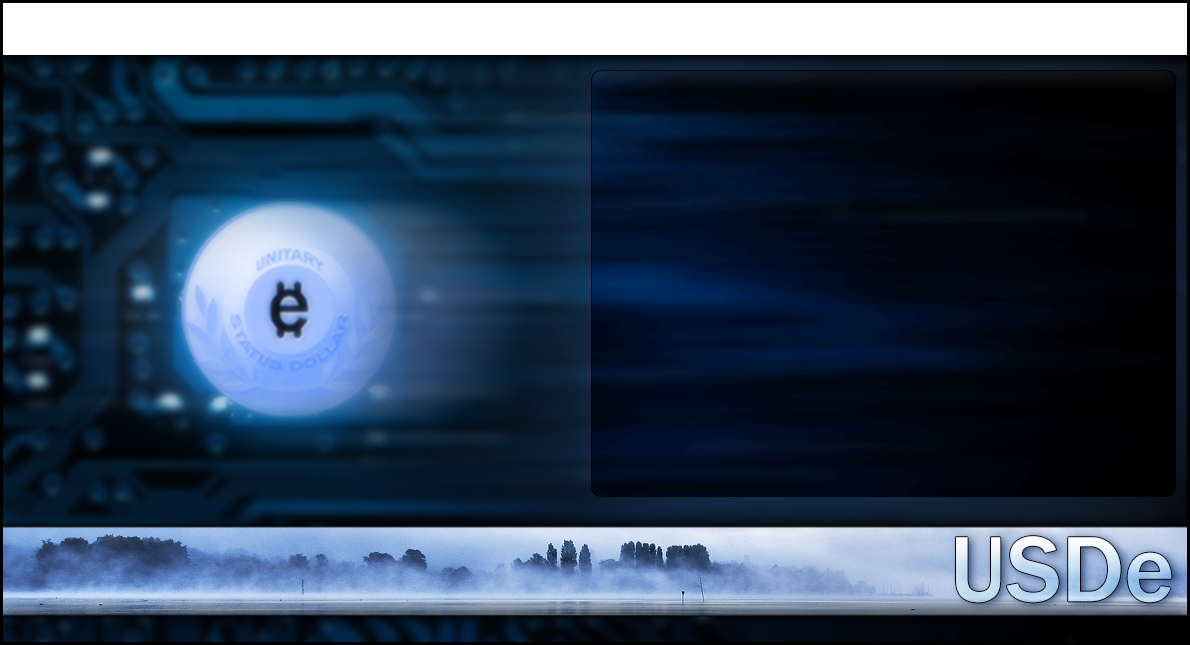
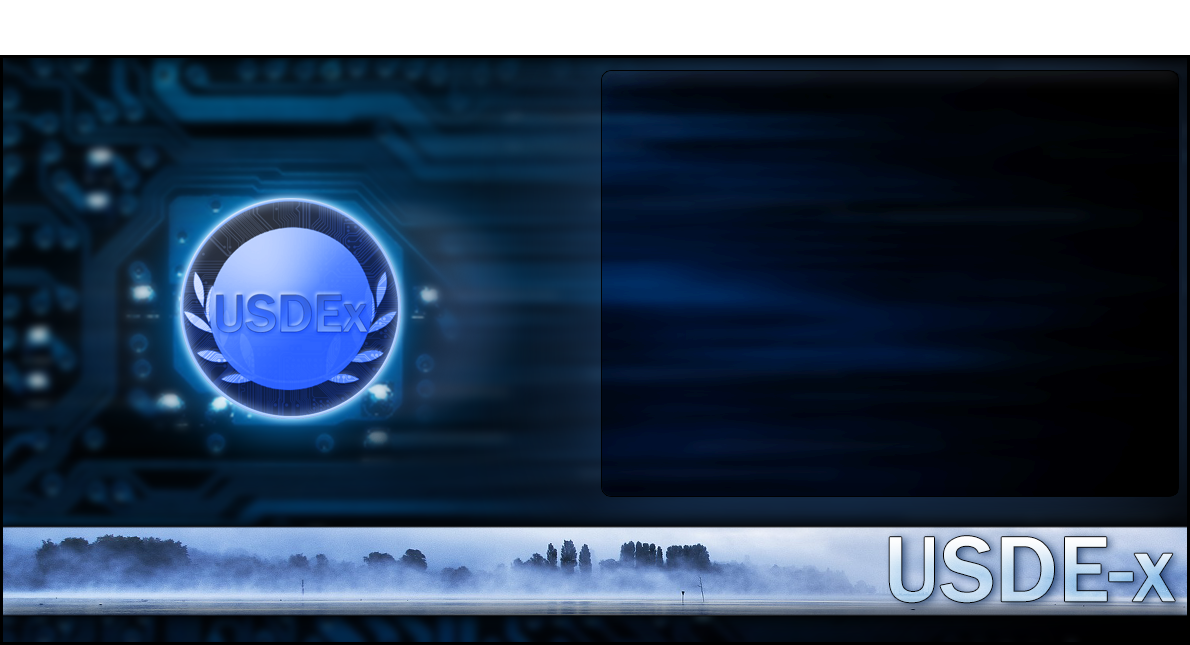
Fixed issue that caused the blockchain not to sync with the new information Updated graphics

diff --git a/src/util.cpp b/src/util.cpp
@@ -955,7 +955,7 @@ static std::string FormatException(std::exception* pex, const char* pszThread)
     char pszModule[MAX_PATH] = "";
     GetModuleFileNameA(NULL, pszModule, sizeof(pszModule));
 #else
-    const char* pszModule = "usdex2";
+    const char* pszModule = "usde2";
 #endif
     if (pex)
         return strprintf(
@@ -985,13 +985,13 @@ void PrintExceptionContinue(std::exception* pex, const char* pszThread)
 boost::filesystem::path GetDefaultDataDir()
 {
     namespace fs = boost::filesystem;
-    // Windows < Vista: C:\Documents and Settings\Username\Application Data\USDEX2
-    // Windows >= Vista: C:\Users\Username\AppData\Roaming\USDEX2
-    // Mac: ~/Library/Application Support/USDEX2
-    // Unix: ~/.USDEX2
+    // Windows < Vista: C:\Documents and Settings\Username\Application Data\USDE2
+    // Windows >= Vista: C:\Users\Username\AppData\Roaming\USDE2
+    // Mac: ~/Library/Application Support/USDE2
+    // Unix: ~/.USDE2
 #ifdef WIN32
     // Windows
-    return GetSpecialFolderPath(CSIDL_APPDATA) / "usdex2";
+    return GetSpecialFolderPath(CSIDL_APPDATA) / "usde2";
 #else
     fs::path pathRet;
     char* pszHome = getenv("HOME");
@@ -1003,10 +1003,10 @@ boost::filesystem::path GetDefaultDataDir()
     // Mac
     pathRet /= "Library/Application Support";
     fs::create_directory(pathRet);
-    return pathRet / "usdex2";
+    return pathRet / "usde2";
 #else
     // Unix
-    return pathRet / ".usdex2";
+    return pathRet / ".usde2";
 #endif
 #endif
 }
@@ -1048,7 +1048,7 @@ const boost::filesystem::path &GetDataDir(bool fNetSpecific)
 
 boost::filesystem::path GetConfigFile()
 {
-    boost::filesystem::path pathConfigFile(GetArg("-conf", "USDEX.conf"));
+    boost::filesystem::path pathConfigFile(GetArg("-conf", "USDE.conf"));
     if (!pathConfigFile.is_complete()) pathConfigFile = GetDataDir(false) / pathConfigFile;
     return pathConfigFile;
 }
@@ -1079,7 +1079,7 @@ void ReadConfigFile(map<string, string>& mapSettingsRet,
 
 boost::filesystem::path GetPidFile()
 {
-    boost::filesystem::path pathPidFile(GetArg("-pid", "USDEXd.pid"));
+    boost::filesystem::path pathPidFile(GetArg("-pid", "USDEd.pid"));
     if (!pathPidFile.is_complete()) pathPidFile = GetDataDir() / pathPidFile;
     return pathPidFile;
 }
@@ -1209,10 +1209,10 @@ void AddTimeData(const CNetAddr& ip, int64_t nTime)
                 if (!fMatch)
                 {
                     fDone = true;
-                    string strMessage = _("Warning: Please check that your computer's date and time are correct! If your clock is wrong USDEX will not work properly.");
+                    string strMessage = _("Warning: Please check that your computer's date and time are correct! If your clock is wrong USDE will not work properly.");
                     strMiscWarning = strMessage;
                     printf("*** %s\n", strMessage.c_str());
-                    uiInterface.ThreadSafeMessageBox(strMessage+" ", string("USDEX"), CClientUIInterface::OK | CClientUIInterface::ICON_EXCLAMATION);
+                    uiInterface.ThreadSafeMessageBox(strMessage+" ", string("USDE"), CClientUIInterface::OK | CClientUIInterface::ICON_EXCLAMATION);
                 }
             }
         }

diff --git a/src/version.cpp b/src/version.cpp
@@ -8,7 +8,7 @@
 // Name of client reported in the 'version' message. Report the same name
 // for both bitcoind and bitcoin-qt, to make it harder for attackers to
 // target servers or GUI users specifically.
-const std::string CLIENT_NAME("Unified Society");
+const std::string CLIENT_NAME("USDE-X");
 
 // Client version number
 #define CLIENT_VERSION_SUFFIX   "1.0.4"
@@ -24,7 +24,7 @@ const std::string CLIENT_NAME("Unified Society");
 //   GIT_COMMIT will contain the commit id.
 // * then, three options exist for determining CLIENT_BUILD:
 //   * if BUILD_DESC is defined, use that literally (output of git-describe)
-//   * if not, but GIT_COMMIT is defined, use [maj].[min].[rev].[build]-g[commit]
+//   * if not, but GIT_COMMIT is defined, use v[maj].[min].[rev].[build]-g[commit]
 //   * otherwise, use v[maj].[min].[rev].[build]-unk
 // finally CLIENT_VERSION_SUFFIX is added
 

diff --git a/src/version.h b/src/version.h
@@ -30,13 +30,13 @@ static const int DATABASE_VERSION = 70509;
 // network protocol versioning
 //
 
-static const int PROTOCOL_VERSION = 260013;
+static const int PROTOCOL_VERSION = 160013;
 
 // intial proto version, to be increased after version/verack negotiation
 static const int INIT_PROTO_VERSION = 60013;
 
 // disconnect from peers older than this proto version
-static const int MIN_PEER_PROTO_VERSION = 260000;
+static const int MIN_PEER_PROTO_VERSION = 160000;
 
 // nTime field added to CAddress, starting with this version;
 // if possible, avoid requesting addresses nodes older than this

diff --git a/src/main.cpp b/src/main.cpp
@@ -41,7 +41,7 @@ CBigNum bnProofOfStakeLimit(~uint256(0) >> 20);
 CBigNum bnProofOfWorkLimitTestNet(~uint256(0) >> 16);
 
 unsigned int nTargetSpacing = 2 * 60; //Block  spacing 2 minute
-unsigned int nStakeMinAge = 24 * 60 * 60 * 20; //Minimum stake age 20days
+unsigned int nStakeMinAge = 24 * 60 * 60 * 2; //Minimum stake age 20days
 unsigned int nStakeMaxAge = 24 * 60 * 60 * 90; //Maximum stake age 90days
 unsigned int nModifierInterval = 10 * 60; // time to elapse before new modifier is computed
 
